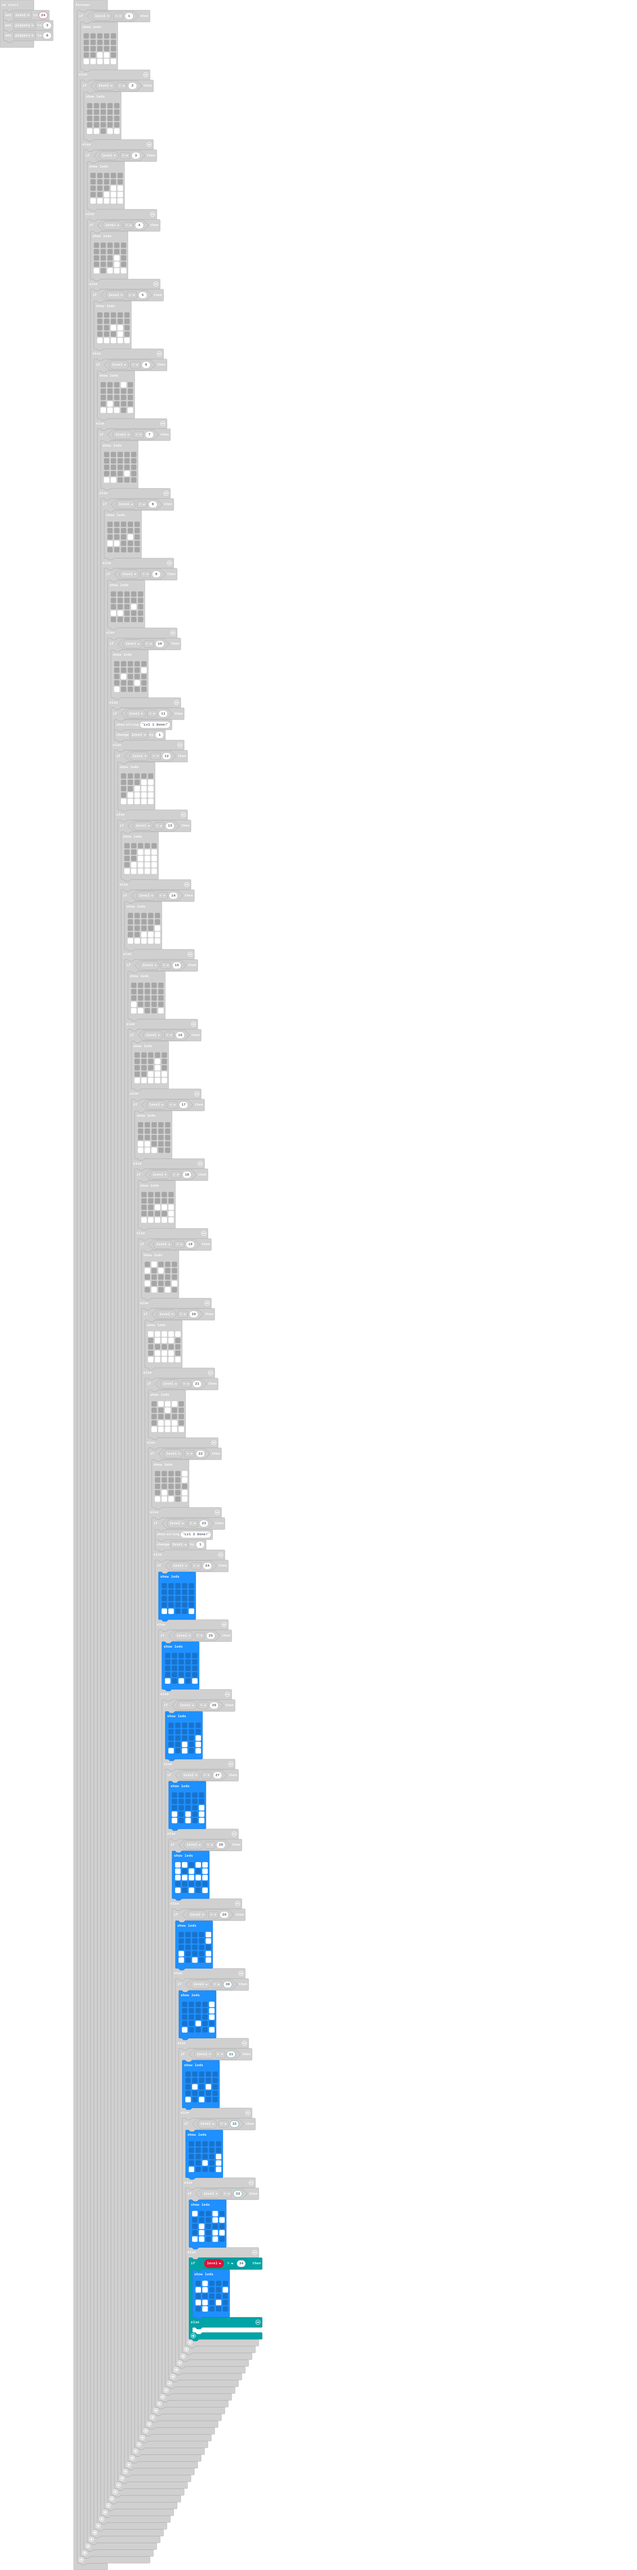
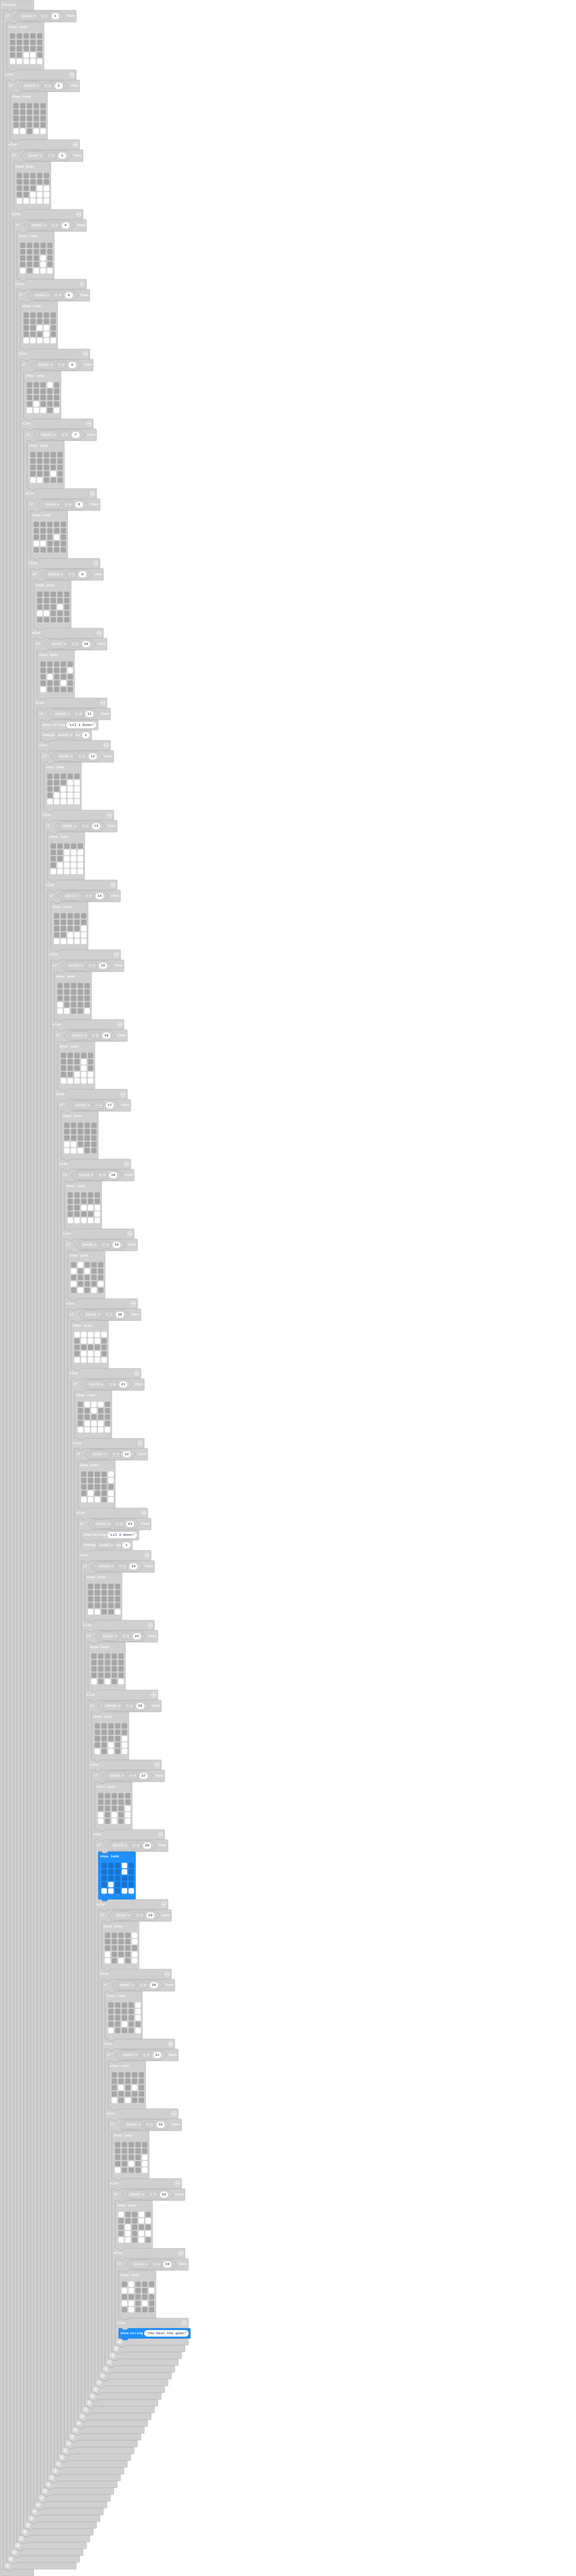
Game finished

Changed region(s): [[0.0, 0.0, 0.4327, 1.0]]

diff --git a/main.ts b/main.ts
@@ -270,11 +270,11 @@ basic.forever(function () {
                                                                                                             } else {
                                                                                                                 if (level == 28) {
                                                                                                                     basic.showLeds(`
-                                                                                                                        # # . # #
-                                                                                                                        # . # . #
-                                                                                                                        # # # # #
+                                                                                                                        . . . # .
+                                                                                                                        . . . # .
                                                                                                                         . . . . .
-                                                                                                                        # . # . #
+                                                                                                                        . # . . .
+                                                                                                                        # # . # #
                                                                                                                         `)
                                                                                                                 } else {
                                                                                                                     if (level == 29) {
@@ -331,7 +331,7 @@ basic.forever(function () {
                                                                                                                                                 . # . . .
                                                                                                                                                 `)
                                                                                                                                         } else {
-                                                                                                                                        	
+                                                                                                                                            basic.showString("You beat the game!")
                                                                                                                                         }
                                                                                                                                     }
                                                                                                                                 }
